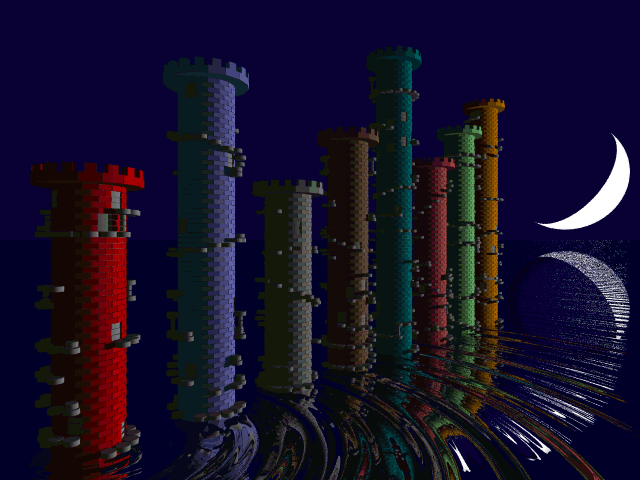
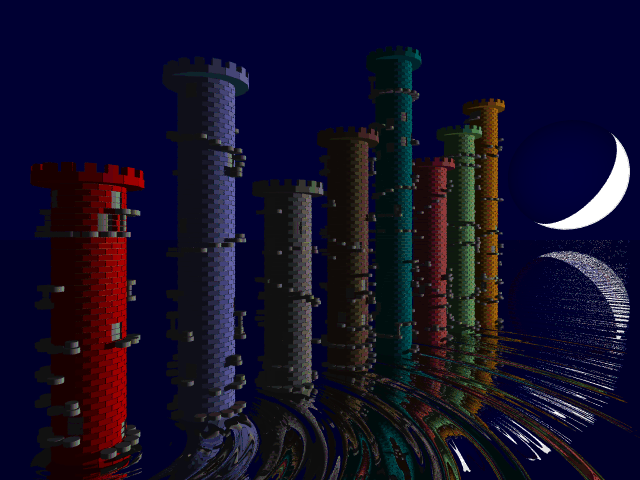
update to colorreduction

diff --git a/colorreduction.h b/colorreduction.h
@@ -1,5 +1,6 @@
 typedef struct {
   Uint16 rmin, rmax, gmin, gmax, bmin, bmax;
+  Uint32 count;
 } boundary;
 
 Uint32 color_cube[256][256][256];
@@ -7,7 +8,7 @@ boundary boundaries[256];
 
 Uint8 colors[3*256];
 
-void count(SDL_Surface *s) {
+Uint32 count(SDL_Surface *s) {
 
   Uint32 x, y;
 
@@ -24,6 +25,8 @@ void count(SDL_Surface *s) {
       color_cube[r][g][b]++;
     }
   }
+
+  return s->h * s->w;
 }
 
 void minimize(Uint16 num) {
@@ -31,8 +34,6 @@ void minimize(Uint16 num) {
   Uint16 r, g, b;
 
   int found;
-
-
 
   if (boundaries[num].rmin< boundaries[num].rmax) {
 
@@ -161,6 +162,7 @@ Uint16 max (Uint16 a, Uint16 b, Uint16 c) {
 }
 
 Uint16 findbiggest(Uint16 c) {
+  /*
   int n;
   int largest_block = 0;
   int largest_dim = max(boundaries[0].rmax-boundaries[0].rmin,
@@ -175,9 +177,24 @@ Uint16 findbiggest(Uint16 c) {
       largest_block = n;
       largest_dim = ld;
     }
+    }
+    */
+
+  int n;
+  int largest_block = -1;
+
+  for (n = 0; n < c; n++) {
+    if ((boundaries[n].rmax != boundaries[n].rmin) ||
+        (boundaries[n].gmax != boundaries[n].gmin) ||
+        (boundaries[n].bmax != boundaries[n].bmin))
+      if ((largest_block == -1) || (boundaries[n].count > boundaries[largest_block].count))
+         largest_block = n;
   }
 
-  return largest_block;
+  if (largest_block != -1)
+    return largest_block;
+  else
+    return 0;
 }
 
 void split(Uint16 block, Uint16 block2) {
@@ -244,6 +261,9 @@ void split(Uint16 block, Uint16 block2) {
     boundaries[block2].rmin = x2;
     boundaries[block].rmax = x1;
 
+    boundaries[block].count = c1;
+    boundaries[block2].count = c2;
+
     break;
   case 1:
     /* cut along g */
@@ -287,6 +307,10 @@ void split(Uint16 block, Uint16 block2) {
     boundaries[block2].gmax = boundaries[block].gmax;
     boundaries[block2].gmin = x2;
     boundaries[block].gmax = x1;
+
+    boundaries[block].count = c1;
+    boundaries[block2].count = c2;
+
 
     break;
   case 2:
@@ -332,6 +356,9 @@ void split(Uint16 block, Uint16 block2) {
     boundaries[block2].bmin = x2;
     boundaries[block].bmax = x1;
 
+    boundaries[block].count = c1;
+    boundaries[block2].count = c2;
+
     break;
   }
 
@@ -340,13 +367,14 @@ void split(Uint16 block, Uint16 block2) {
 }
 
 
-void calc_colors(Uint16 num_colors) {
+void calc_colors(Uint16 num_colors, Uint32 cnt) {
 
   Uint16 n, c;
 
   n = 1;
   boundaries[0].rmin = boundaries[0].gmin = boundaries[0].bmin = 0;
   boundaries[0].rmax = boundaries[0].gmax = boundaries[0].bmax = 255;
+  boundaries[0].count = cnt;
 
   minimize(0);
 
@@ -394,9 +422,9 @@ void reduce(SDL_Surface *in, SDL_Surface *out, Uint16 num_colors) {
 }
 
 SDL_Surface * colorreduction(SDL_Surface *in_image, Uint16 colors_num) {
-  count(in_image);
+  Uint32 c = count(in_image);
 
-  calc_colors(colors_num);
+  calc_colors(colors_num, c);
   printf("\n");
 
   SDL_Surface *out_image = SDL_CreateRGBSurface(0, in_image->w, in_image->h, 8, 0, 0, 0, 0);

diff --git a/graphics.c b/graphics.c
@@ -167,8 +167,8 @@ void createdoor(double w, unsigned short ys, unsigned short xm, double doorwidth
           double stonepos = pixelpos;
 
           /* at the middle layer it's shifted by half a stone width */
-          if (layer == 1)
-            stonepos += brick->w/2;
+/*          if (layer == 1)
+            stonepos += brick->w/2;*/
 
           while (stonepos >= brick->w)
             stonepos -= brick->w;
@@ -196,8 +196,8 @@ void createdoor(double w, unsigned short ys, unsigned short xm, double doorwidth
 
           double stonepos = pixelpos;
   
-          if (layer == 1)
-            stonepos += brick->w/2;
+/*          if (layer == 1)
+            stonepos += brick->w/2;*/
   
           while (stonepos >= brick->w)
             stonepos -= brick->w;
@@ -381,7 +381,7 @@ void writebrickpixel(Uint16 x, Uint16 y, FILE *out) {
 void createzinne(unsigned short ys, double w)
 {
   double e, n;
-  long t, z, x1, x2, xl;
+  long t, x1, x2, xl;
   long xmin = zinnenrad, xmax = zinnenrad;
 
 
